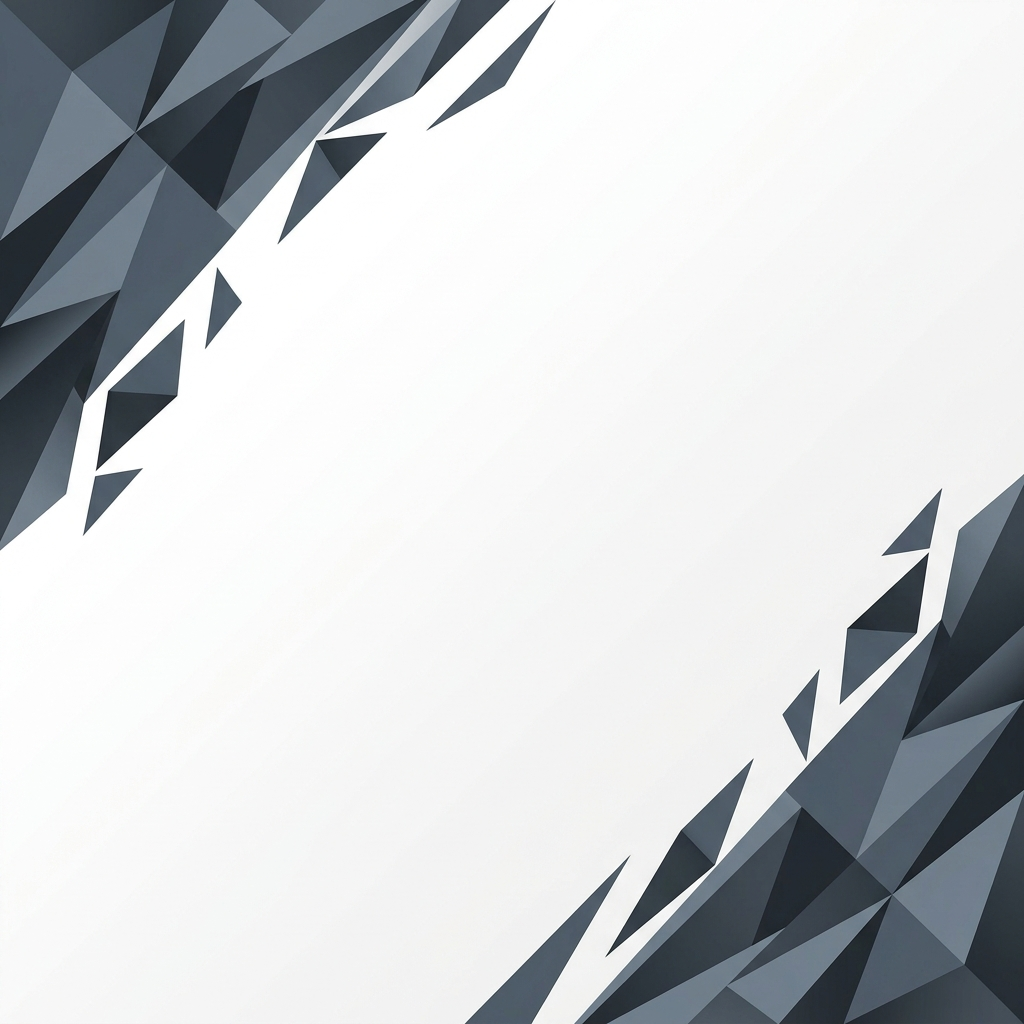
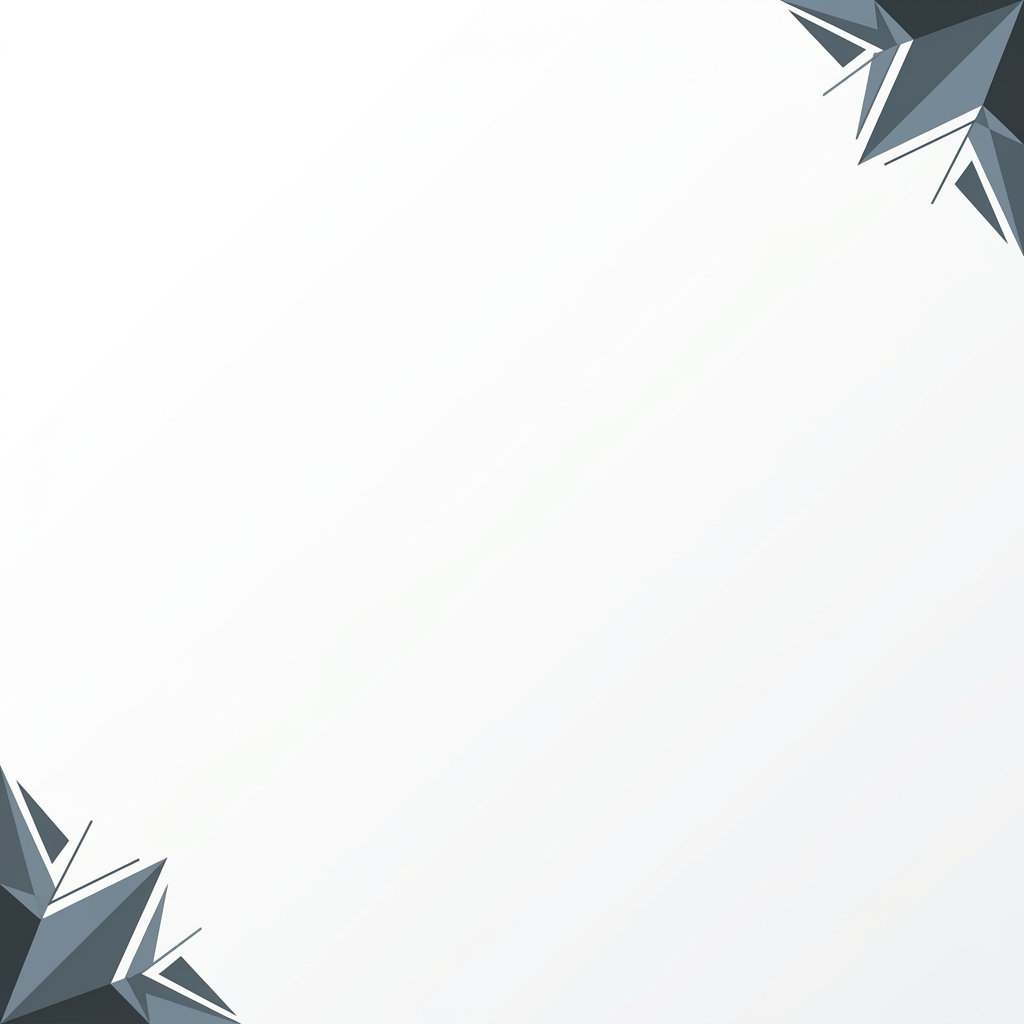
Generate and apply new clean background for members

diff --git a/artifacts/teamflow/src/pages/team.tsx b/artifacts/teamflow/src/pages/team.tsx
@@ -506,7 +506,7 @@ export function Team() {
                 }`}
               >
                 <div 
-                  className={`absolute inset-0 z-0 ${member.role === 'member' ? 'opacity-20' : 'opacity-100'}`}
+                  className="absolute inset-0 z-0 opacity-100"
                   style={{
                     backgroundImage: `url(${member.role === 'leader' ? '/bg-leader.png' : member.role === 'co-leader' ? '/bg-coleader.png' : '/bg-member.png'})`,
                     backgroundSize: '100% 100%',